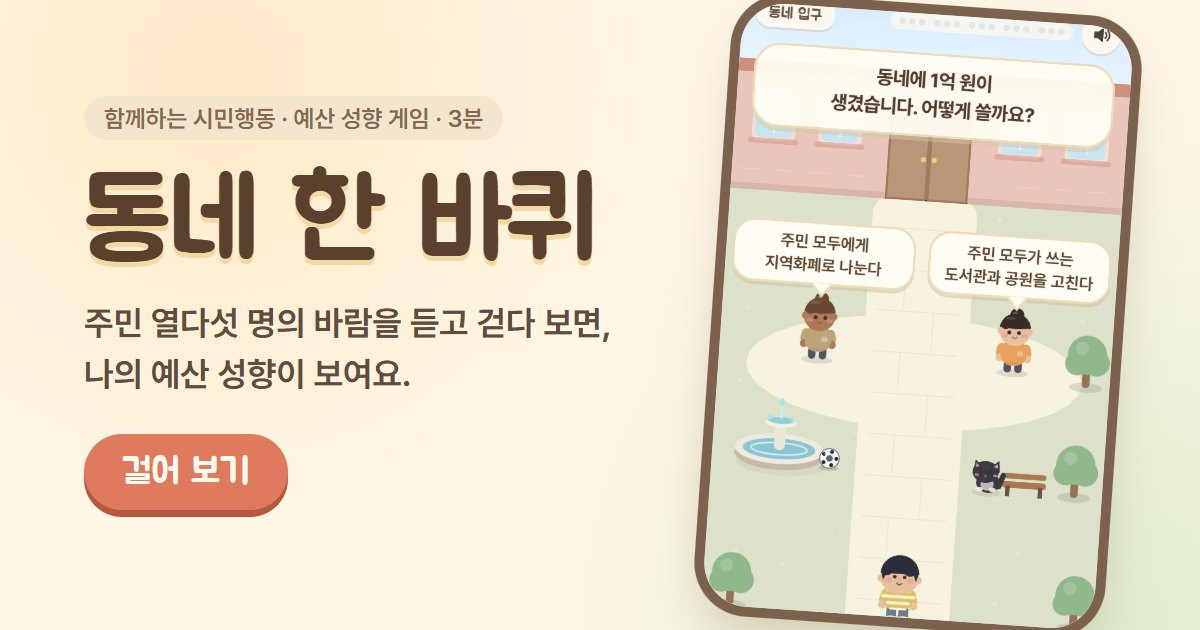
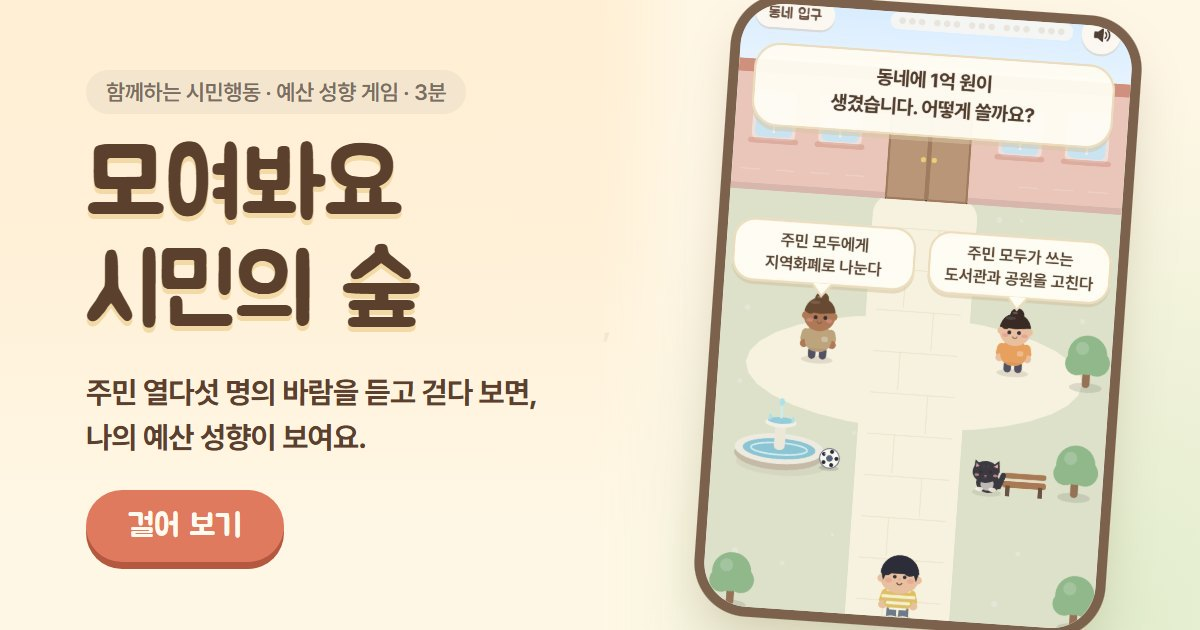
이름을 「모여봐요 시민의 숲」·「시민마을」로, 로그인은 키 둘만 넣으면 켜지게
- 게임 이름(제목·카톡 카드·공유 글·주민증·첫 화면)과 마을 이름(VILLAGE_NAME)을 바꿈, og.jpg 다시 구움
- Code.js: 스크립트 속성이 비면 LOGIN_ 의 키를 쓰고, 소금은 처음 로그인 때 만든다(setup 다시 안 돌려도 됨)
- 비밀(카카오 클라이언트 시크릿)은 깃 무시 Secret.js 로 clasp 에만
- 앱스 스크립트 @4 로 다시 올림(동전 길 포함)

Changed region(s): [[0.0617, 0.1206, 0.5242, 0.5429], [0.0617, 0.573, 0.4625, 0.9048]]

diff --git a/game/index.html b/game/index.html
@@ -5,19 +5,19 @@
     <meta name="viewport" content="width=device-width, initial-scale=1, viewport-fit=cover" />
     <meta name="theme-color" content="#fffaf0" />
     <link rel="icon" href="data:," />
-    <title>동네 한 바퀴 · 함께하는 시민행동</title>
+    <title>모여봐요 시민의 숲 · 함께하는 시민행동</title>
     <!-- 카톡·SNS 링크 미리보기(사용자 10-14). 그림은 public/og.jpg(1200×630) — 주소는 절대 주소여야 카톡이 읽는다. -->
     <meta name="description" content="주민 열다섯 명의 바람을 듣고 걷다 보면, 나의 예산 성향이 보여요. 3분이면 돼요." />
     <meta property="og:type" content="website" />
     <meta property="og:locale" content="ko_KR" />
     <meta property="og:site_name" content="함께하는 시민행동" />
-    <meta property="og:title" content="동네 한 바퀴 — 나의 예산 성향 찾기" />
+    <meta property="og:title" content="모여봐요 시민의 숲 — 나의 예산 성향 찾기" />
     <meta property="og:description" content="주민 열다섯 명의 바람을 듣고 걷다 보면, 나의 예산 성향이 보여요. 3분이면 돼요." />
     <meta property="og:url" content="https://bada17.github.io/budget-mbti-survey/game/" />
     <meta property="og:image" content="https://bada17.github.io/budget-mbti-survey/game/og.jpg" />
     <meta property="og:image:width" content="1200" />
     <meta property="og:image:height" content="630" />
-    <meta property="og:image:alt" content="동네 한 바퀴 — 두 주민이 말풍선으로 바람을 말하는 게임 화면" />
+    <meta property="og:image:alt" content="모여봐요 시민의 숲 — 두 주민이 말풍선으로 바람을 말하는 게임 화면" />
     <meta name="twitter:card" content="summary_large_image" />
   </head>
   <body><main id="game-root"></main><script type="module" src="./main.ts"></script></body>

diff --git a/server/gas/Code.js b/server/gas/Code.js
@@ -30,16 +30,29 @@ function setup() {
   return book_().getName();
 }
 
+/**
+ * 로그인 키 — 스크립트 속성이 비었을 때 쓴다(사용자가 속성 칸을 채우지 않아도 되게, 10-15).
+ * 둘 다 공개판 화면 주소(카카오·구글로 가는 길)에 어차피 드러나는 값이라 여기 둬도 된다. 비밀(KAKAO_SECRET)은 넣지 않는다.
+ */
+var LOGIN_ = {
+  KAKAO_REST_KEY: '',
+  GOOGLE_CLIENT_ID: '',
+  LOGIN_REDIRECTS: 'https://bada17.github.io/budget-mbti-survey/game/',
+};
+
 /** 로그인 확인에 쓰는 바깥 것들(server/gas.ts 의 Deps). */
 function deps_() {
   var props = PropertiesService.getScriptProperties();
+  // 소금이 없으면 처음 로그인 때 만든다(setup 을 다시 안 돌려도 되게). 쓰는 요청은 doPost 가 잠금을 잡고 부른다.
+  if (!props.getProperty('ACCOUNT_SALT')) props.setProperty('ACCOUNT_SALT', Utilities.getUuid() + Utilities.getUuid());
   return {
     fetch: function (url, options) {
       var o = options || {};
       var r = UrlFetchApp.fetch(url, { method: o.method || 'get', payload: o.payload, headers: o.headers, muteHttpExceptions: true });
       return { status: r.getResponseCode(), text: r.getContentText() };
     },
-    prop: function (name) { return props.getProperty(name); },
+    // 카카오 클라이언트 시크릿처럼 비밀인 것은 Secret.js(깃 무시, clasp push 로만 올라감)의 SECRET_ 에 — 있으면 쓴다.
+    prop: function (name) { return props.getProperty(name) || LOGIN_[name] || (typeof SECRET_ !== 'undefined' && SECRET_[name]) || null; },
     sha256: function (text) {
       return Utilities.computeDigest(Utilities.DigestAlgorithm.SHA_256, text, Utilities.Charset.UTF_8)
         .map(function (b) { return ('0' + (b & 255).toString(16)).slice(-2); }).join('');

diff --git a/game/town.ts b/game/town.ts
@@ -145,7 +145,7 @@ export function openTown(shell: HTMLElement, data: HubData, onClose: () => void,
     grid.append(mark);
   }
   const got = stamps.filter(s => s.on).length;
-  card.append(el('div', 't-card-top', '동네 한 바퀴 주민증'), body, grid, el('p', 't-issued', `도장 ${got}/${stamps.length} · ${today()} 발급 · 함께하는 시민행동`));
+  card.append(el('div', 't-card-top', '시민의 숲 주민증'), body, grid, el('p', 't-issued', `도장 ${got}/${stamps.length} · ${today()} 발급 · 함께하는 시민행동`));
   const save = btn('g-primary', '주민증 저장·보내기', () => {});
   const join = el('a', 'g-link t-join', '정주민 도장 — 시민행동 회원 되기 →');
   join.href = `${DONATE_URL}&utm_content=resident-card`; join.target = '_blank'; join.rel = 'noopener';
@@ -195,7 +195,7 @@ export function openTown(shell: HTMLElement, data: HubData, onClose: () => void,
     const ready = file ?? (await prepare(), file);
     if (!ready) { status.textContent = '그림을 만들지 못했어요. 화면을 찍어 주세요.'; return; }
     if (navigator.canShare?.({ files: [ready] })) {
-      try { await navigator.share({ files: [ready], text: '동네 한 바퀴 — 내 주민증' }); return; } catch (error) { if ((error as Error).name === 'AbortError') return; }
+      try { await navigator.share({ files: [ready], text: '모여봐요 시민의 숲 — 내 주민증' }); return; } catch (error) { if ((error as Error).name === 'AbortError') return; }
     }
     const url = URL.createObjectURL(ready), a = el('a'); a.href = url; a.download = ready.name; a.click();
     setTimeout(() => URL.revokeObjectURL(url), 1000); // 아이폰은 바로 지우면 저장을 놓친다(예산게임에서 겪음)

diff --git a/game/main.ts b/game/main.ts
@@ -256,10 +256,10 @@ function share(reply = false) {
   ui.toast(to ? `답장 링크에는 ${to.name}님과 내가 지은 동네가 담겨요` : '보내는 링크에 내가 지은 동네(고른 열다섯 가지)가 담겨요');
   const text = to
     ? `${to.name}님, 답장이에요! 나는 ${josa(`「${TYPES[state.result].name}」`, '이래요', '래요')}. 우리 동네 나란히 놓고 봐요.`
-    : `동네 한 바퀴 — 나는 ${josa(`「${TYPES[state.result].name}」`, '이래요', '래요')}. 너도 걸어 봐!`;
+    : `모여봐요 시민의 숲 — 나는 ${josa(`「${TYPES[state.result].name}」`, '이래요', '래요')}. 너도 걸어 봐!`;
   // 그림이 준비됐고 받는 쪽이 파일을 받으면 그림 + 글(링크 포함), 아니면 지금처럼 링크만.
   const files = card && navigator.canShare?.({ files: [card] }) ? [card] : undefined;
-  if (navigator.share) navigator.share(files ? { files, text: `${text}\n${url}` } : { title: '동네 한 바퀴', text, url }).catch(() => {});
+  if (navigator.share) navigator.share(files ? { files, text: `${text}\n${url}` } : { title: '모여봐요 시민의 숲', text, url }).catch(() => {});
   else if (navigator.clipboard) void navigator.clipboard.writeText(`${text} ${url}`).then(() => ui.toast('링크를 복사했어요'), () => ui.toast(url));
   else ui.toast(url); // 공유·복사가 다 없는 곳(https 가 아닌 주소) — 주소라도 보인다
 }

diff --git a/game/places.ts b/game/places.ts
@@ -57,7 +57,7 @@ const source = (text: string) => { const d = el('details', 't-source'); d.append
 export function openBus(shell: HTMLElement, neighbor: Neighbor | undefined, walk: () => void, onClose: () => void) {
   const { panel } = placePanel(shell, 'bus', onClose);
   panel.append(
-    el('p', 't-lead', '「동네 한 바퀴」 열다섯 동네를 다시 걸어요. 지난번과 다르게 골라도 괜찮아요.'),
+    el('p', 't-lead', '열다섯 동네를 다시 걸어요. 지난번과 다르게 골라도 괜찮아요.'),
     btn('g-primary', '한 바퀴 걷기', walk),
   );
 }
@@ -318,7 +318,7 @@ function fillVault(pane: HTMLElement, region: Region | undefined) {
 export function openHouse(shell: HTMLElement, onClose: () => void) {
   const { panel } = placePanel(shell, 'house', onClose);
   panel.append(
-    el('p', 't-lead', '함께하는 시민행동은 「동네 한 바퀴」와 이 마을을 만든 시민단체예요. 예산 감시, 밑 빠진 독상, 시민참여 상담소를 꾸려 가요.'),
+    el('p', 't-lead', '함께하는 시민행동은 「모여봐요 시민의 숲」과 시민마을을 만든 시민단체예요. 예산 감시, 밑 빠진 독상, 시민참여 상담소를 꾸려 가요.'),
     link('회원 되기 — 정기후원', `${DONATE_URL}&utm_content=village-house`),
     link('홈페이지 가 보기', out(HOME_URL), 'g-link'),
   );

diff --git a/game/village.ts b/game/village.ts
@@ -5,7 +5,7 @@
     (그림은 draw.ts 의 drawVillage, 판은 places.ts, 들어갔을 때 무엇을 여는지는 main.ts 의 openPlace.)
   · 사용자 「커뮤니티 기능보다는 혼자가 아니다는 느낌」 — 그래서 대화방이 아니라 쪽지(한 줄)와 다녀간 사람들의 모습이다.
     쪽지는 답글이 없고, 「나도」 와 「신고」 만 있다.
-  · 이름 「언덕 너머 마을」·건물 이름·주민 한마디는 Claude 가 붙인 임시(사용자 「임시 이름으로 해」).
+  · 이름 「시민마을」(사용자 10-15)·건물 이름·주민 한마디는 Claude 가 붙인 임시(사용자 「임시 이름으로 해」).
 */
 import type { Point } from './room';
 import { rng } from './look';
@@ -15,7 +15,7 @@ export type PlaceId = 'bus' | 'hub' | 'counsel' | 'dok' | 'finance' | 'board' | 
 /** 들어가는 곳 — box 는 부딪히는 앞벽(그림은 이 위로 지붕이 솟는다), door 는 문 앞에 서는 자리(여기 닿으면 판이 열린다). */
 export type Place = { id: PlaceId; name: string; line: string; box: Box; door: Point };
 
-export const VILLAGE_NAME = '언덕 너머 마을';
+export const VILLAGE_NAME = '시민마을';
 export const VILLAGE_W = 1040;
 export const VILLAGE_H = 1500;
 /** 광장 — 가운데 분수. 다녀간 주민들이 여기서 서성인다. */

diff --git a/server/gas.ts b/server/gas.ts
@@ -12,7 +12,7 @@
 
   로그인 확인(verifyLogin) — 카카오는 받은 code 를 토큰으로 바꿔 회원번호를 묻고, 구글은 id_token 을 tokeninfo 로 확인한다.
   바깥에 묻는 건 Code.js 가 넣어 주는 deps(UrlFetchApp·스크립트 속성·해시·난수)로만 — 시험에서는 가짜로 바꿔 끼운다.
-  스크립트 속성: KAKAO_REST_KEY(·KAKAO_SECRET, 켰을 때만) · GOOGLE_CLIENT_ID · LOGIN_REDIRECTS(쉼표로, 게임 주소) · ACCOUNT_SALT(setup 이 만든다).
+  스크립트 속성: KAKAO_REST_KEY(·KAKAO_SECRET, 켰을 때만) · GOOGLE_CLIENT_ID · LOGIN_REDIRECTS(쉼표로, 게임 주소) · ACCOUNT_SALT(처음 로그인 때 Code.js 가 만든다). 키 둘·LOGIN_REDIRECTS 는 속성이 비면 Code.js 의 LOGIN_ 을 쓴다.
   키가 없는 쪽은 로그인이 안 된다(401) — 그래서 키를 넣기 전까지 로그인은 저절로 꺼져 있다.
 
   ponytail: 요청마다 탭 전체를 읽는다 — 응답이 수천 건을 넘어 느려지면 진짜 서버(README 정할 것 10)로 옮긴다.

diff --git a/game/ui.css b/game/ui.css
@@ -1,5 +1,5 @@
 /*
-  동네 한 바퀴 — 화면 위 글·단추 모양 하나로(10-14 사용자 「문구 디자인이 다 별로야, 이쁘게」).
+  모여봐요 시민의 숲 — 화면 위 글·단추 모양 하나로(10-14 사용자 「문구 디자인이 다 별로야, 이쁘게」).
   글꼴: 제목·이름표·단추·큰 숫자만 둥근 「주아」(--display), 읽는 글(말풍선·말 상자·대답·목록·설명)은 「Pretendard」(--body, 굵기로 나눔).
   10-14 사용자 「폰트가 좋으면서 안 좋아, 가독성이 떨어져」 — 주아는 간판용이라 두 줄 넘는 문장은 뭉쳐 보였고, 긴 글의 고운돋움은 가늘어 흐렸다.
   둘 다 이 사이트가 직접 내보낸다(main.ts) — Pretendard 는 한글을 조각 92개로 나눠 쓰는 글자 조각만 받는다.

diff --git a/game/ui.ts b/game/ui.ts
@@ -112,7 +112,7 @@ export function createUI(root: HTMLElement, actions: {
   replies.append(replyList, talk);
   const intro = el('section', 'g-intro');
   intro.innerHTML = `<div class="g-intro-card"><span class="g-kicker">함께하는 시민행동 · 예산 성향 게임 · 3분</span>
-    <h1>동네 한 바퀴</h1>
+    <h1>모여봐요<br>시민의 숲</h1>
     <p>주민 열다섯 명이 바라는 게 서로 달라요.<br>마음 가는 사람에게 걸어가 이야기를 들어 주세요.</p>
     <ul class="g-notes"></ul>
     <button class="g-primary g-start" type="button" disabled>준비하고 있어요…</button>
